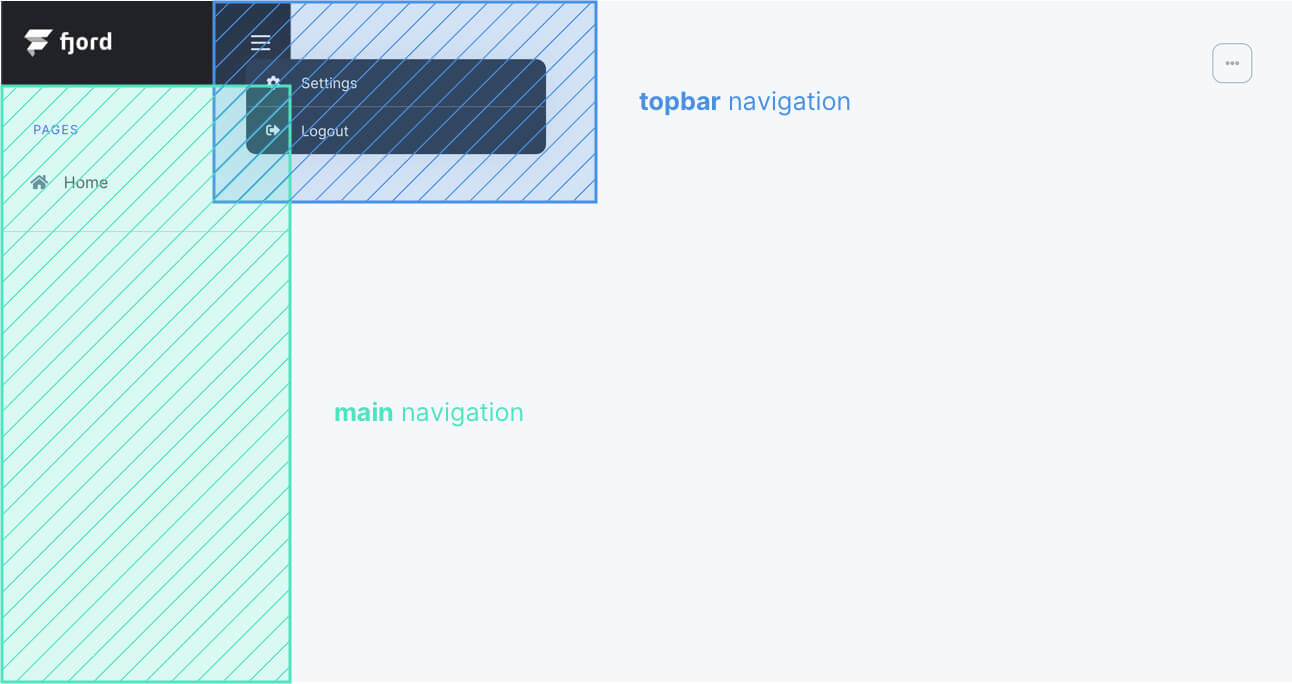
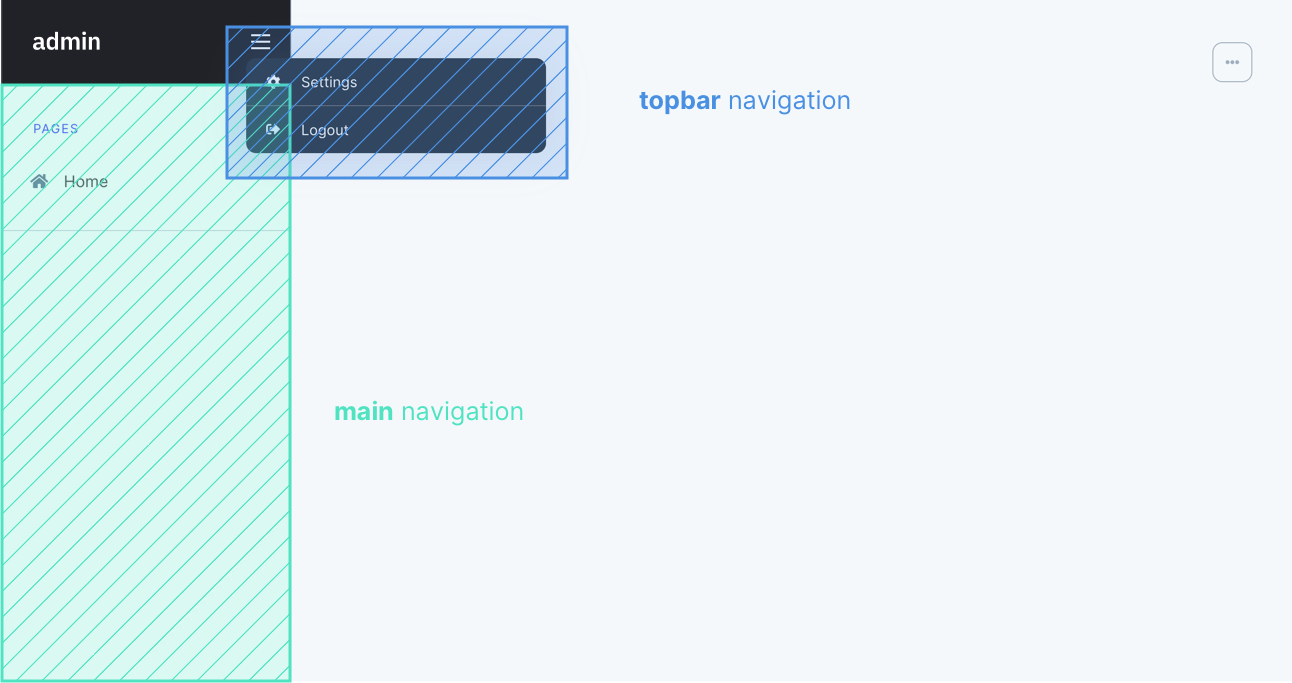
update docs

diff --git a/docs/.vuepress/config.js b/docs/.vuepress/config.js
@@ -1,7 +1,7 @@
 const meta = {
-    title: 'Fjord | Laravel Content-Administration',
+    title: 'Laravel Content-Administration',
     description:
-        'Fjord is a multilanguage admin-panel scaffolding package that helps you creating CRUD in seconds via Artisan-commands. It also lets you manage the "static" content of each of your websites pages (Headlines, Text, Images), as well repetitive mixed contents you define. Generating content as well as passing it to your views and retrieving it is super simple.',
+        'A multilanguage admin-panel scaffolding package that helps you creating CRUD in seconds via Artisan-commands. It also lets you manage the "static" content of each of your websites pages (Headlines, Text, Images), as well repetitive mixed contents you define. Generating content as well as passing it to your views and retrieving it is super simple.',
     url: 'https://www.fjord-admin.com'
 };
 
@@ -40,7 +40,7 @@ let head = [
 
 module.exports = {
     base: '/',
-    title: 'Fjord',
+    title: 'Laravel Content-Administration',
     description: 'description',
     head,
     plugins: [
@@ -60,7 +60,7 @@ module.exports = {
         ]
     ],
     themeConfig: {
-        logo: '/logo.svg',
+        //logo: '/logo.svg',
         repo: 'aw-studio/fjord',
         editLinks: true,
         docsDir: 'docs',
@@ -69,7 +69,7 @@ module.exports = {
                 text: 'Documentation',
                 link: '/docs/getting-started/installation'
             },
-            { text: '🕹 Demo', link: 'https://demo.fjord-admin.com/admin' },
+            //{ text: '🕹 Demo', link: 'https://demo.fjord-admin.com/admin' },
             { text: 'Discord', link: 'https://discord.gg/u4qpb5P' }
         ],
         sidebar: {
@@ -88,7 +88,7 @@ module.exports = {
                     collapsable: false,
                     children: [
                         ['docs/basics/navigation', 'Navigation'],
-                        ['docs/basics/page', 'Fjord Page'],
+                        ['docs/basics/page', 'Page'],
                         ['docs/basics/localization', 'Localization'],
                         ['docs/basics/helpers', 'Helpers']
                     ]
@@ -159,8 +159,8 @@ module.exports = {
                     title: 'Official Packages',
                     collapsable: false,
                     children: [
-                        ['docs/packages/fjord-ui-kit', 'Fjord UI Kit'],
-                        ['docs/packages/fjord-pages', 'Fjord Pages']
+                        ['docs/packages/fjord-ui-kit', 'UI Kit'],
+                        ['docs/packages/fjord-pages', 'Pages']
                     ]
                 }
                 // {

diff --git a/docs/docs/basics/localization.md b/docs/docs/basics/localization.md
@@ -2,9 +2,9 @@
 
 [[toc]]
 
-Fjord can be managed multilingual. The translation in the frontend can be done in `php` using [laravel's localization](https://laravel.com/docs/7.x/localization) service or in `vue` using [vue-i18n](https://kazupon.github.io/vue-i18n/docs/formatting.html). It uses the syntax of **laravel**. All translation strings are formatted so they can be used in `vue-i18n` as well.
+The application can be managed multilingual. The translation in the frontend can be done in `php` using [laravel's localization](https://laravel.com/docs/7.x/localization) service or in `vue` using [vue-i18n](https://kazupon.github.io/vue-i18n/docs/formatting.html). It uses the syntax of **laravel**. All translation strings are formatted so they can be used in `vue-i18n` as well.
 
-In Laravel applications that include Fjord, there are **two** different locales, one for your website and one for the Fjord application. So for example, a user can manage German content in the Fjord application and still see the interface in the English version.
+In Laravel applications that include the package, there are **two** different locales, one for your website and one for the admin application. So for example, a user can manage german content in the admin application and still see the interface in the english version.
 
 The following examples refer to the translations which look like this:
 
@@ -18,7 +18,7 @@ return [
 
 ## PHP
 
-To compile for the locale of the Fjord interface the `__f()` helper method is used, just like `__()` from laravel's [localization](https://laravel.com/docs/7.x/localization#retrieving-translation-strings).
+To compile for the locale of the admin interface the `__f()` helper method is used, just like `__()` from laravel's [localization](https://laravel.com/docs/7.x/localization#retrieving-translation-strings).
 
 ```php
 __f('messages.welcome', ['name', 'Jannes'])
@@ -70,7 +70,7 @@ if (FjordApp::isLocale('en')) {
 
 ## Add Path
 
-By default the path `fjord/resources/lang` is imported for the Fjord translation. You can register any number of paths with localization files in your service providers. However, it is recommended to keep the translations for the Fjord application and your website separate.
+By default the path `fjord/resources/lang` is imported for the admin translation. You can register any number of paths with localization files in your service providers. However, it is recommended to keep the translations for the admin application and your website separate.
 
 All translation attributes are merged, which makes it easy to extend existing localizations for parts like **validation** or others.
 

diff --git a/docs/docs/frontend/components.md b/docs/docs/frontend/components.md
@@ -2,13 +2,13 @@
 
 [[toc]]
 
-Fjord comes along with **bootstrap-vue** and a few components that can be used to build pages that fit the Fjord style. To ensure that users of the Fjord interface can find their way around quickly and easily on all sites, it is recommended to follow the following guidelines.
+The package comes along with **bootstrap-vue** and a few components that can be used to build pages that fit the package's style. To ensure that users of the admin interface can find their way around quickly and easily on all sites, it is recommended to follow the following guidelines.
 
-Fjord components have the prefix `fj-`.
+The package's components have the prefix `fj-`.
 
 ## Custom Pages
 
-Custom pages for the Fjord admin panel consist of a `container`, the topbar `navigation` and a `header`. The following content can be created as you like.
+Custom pages for the admin panel consist of a `container`, the topbar `navigation` and a `header`. The following content can be created as you like.
 
 The following example shows how the root template of a page looks like.
 
@@ -53,7 +53,7 @@ The topbar navigation is designed to make it easier for the user to navigate thr
 
 ### Go Back
 
-In the topbar navigation a **back** button can be displayed. All pages in Fjord should be reached via at most one more link from the main navigation, i.e. an **overview** page and the **detail** page.
+In the topbar navigation a **back** button can be displayed. All pages in admin application should be reached via at most one more link from the main navigation, i.e. an **overview** page and the **detail** page.
 
 To display the back link a text for the button and a link must be passed as prop to the navigation.
 
@@ -122,7 +122,7 @@ As well the header can contain controls that should be displayed under the heade
 
 ## Spinner
 
-The Fjord spinner can be displayed with the component `fj-spinner`.
+The spinner can be displayed with the component `fj-spinner`.
 
 ```javascript
 <template v-if="busy">

diff --git a/docs/docs/basics/helpers.md b/docs/docs/basics/helpers.md
@@ -2,10 +2,10 @@
 
 [[toc]]
 
-Fjord includes a variety of global helper **PHP** `functions`.
+The package includes a variety of global helper **PHP** `functions`.
 
 ::: tip
-Fjord includes useful **Vue** `mixins` as well. Read the [Vue mixins](/docs/frontend/vue#mixins) section to learn more about the existing `mixins`.
+The package includes useful **Vue** `mixins` as well. Read the [Vue mixins](/docs/frontend/vue#mixins) section to learn more about the existing `mixins`.
 :::
 
 ### Fjord Facade
@@ -23,13 +23,13 @@ Fjord includes useful **Vue** `mixins` as well. Read the [Vue mixins](/docs/fron
 
 ## Fjord Facade
 
-The `Fjord` singleton contains some helpers which are related to the Fjord application.
+The `Fjord` singleton contains some helpers which are related to the application.
 
 <a name="method-php-fjord-installed"></a>
 
 ### `installed()`
 
-The `installed` method checks if Fjord has been installed. This can be useful in service providers.
+The `installed` method checks if the package has been installed. This can be useful in service providers.
 
 ```php
 use Fjord\Support\Facades\Fjord;
@@ -73,7 +73,7 @@ If you don't want to use the route name to call a route but directly specify the
 
 ### `__f($key, $replace)`
 
-The `__f` method returns the translation using the Fjord application locale for the authenticated Fjord user.
+The `__f` method returns the translation using the application locale for the authenticated user.
 
 ```php
 __f('messages.welcome', ['name' => 'Spatie'])
@@ -109,7 +109,7 @@ Fjord::installed();
 
 ### `fjord_user()`
 
-The `fjord_user` method returns the authenticated Fjord user model.
+The `fjord_user` method returns the authenticated user model.
 
 ```php
 <span>{{ fjord_user()->email }}</span>

diff --git a/docs/docs/basics/vue.md b/docs/docs/basics/vue.md
@@ -1,10 +1,10 @@
 # Extend With Vue
 
-The Fjord interface can be extended with custom Vue components for numerous purposes.
+The admin interface can be extended with custom Vue components for numerous purposes.
 
 ## Setup
 
-To include your own `Vue` components in the Fjord application, the locale npm package `vendor/aw-studio/fjord` has to be installed. This can be done using the following artisan command:
+To include your own `Vue` components in the admin application, the locale npm package `vendor/aw-studio/laravel-content-administration` has to be installed. This can be done using the following artisan command:
 
 ```shell
 php artisan fjord:extend
@@ -37,7 +37,7 @@ Components that are created in the `components` folder are automatically registe
 Run `npm run watch` and you are good to go.
 
 ::: warning
-Dont forget to compile your assets every time you **update** your Fjord version.
+Dont forget to compile your assets every time you **update** the package.
 :::
 
 ## Register Vue Components
@@ -46,4 +46,4 @@ Vue Components that are located in the `./fjord/resources/js/components` folder 
 
 ## Bootstrap Vue
 
-To make it easy to build uniform Fjord pages, Fjord uses [Bootstrap Vue](https://bootstrap-vue.org/docs/components) for all frontend components. Bootstrap Vue comes with a large number of components to cover all the necessary areas needed to build an application.
+To make it easy to build uniform Fjord pages, the package uses [Bootstrap Vue](https://bootstrap-vue.org/docs/components) for all frontend components. Bootstrap Vue comes with a large number of components to cover all the necessary areas needed to build an application.

diff --git a/docs/docs/basics/page.md b/docs/docs/basics/page.md
@@ -1,10 +1,10 @@
-# Fjord Page
+# Page
 
 [[toc]]
 
-Fjord Pages are the fundamental part of fjord. They provide a convenient and yet powerfull way to configure pages for the Vue application in PHP. They can be used to integrate **Blade Views**, **Vue components** or ready-made components such as **charts** or form fields for models.
+Pages are the fundamental part of package. They provide a convenient and yet powerfull way to configure pages for the Vue application in PHP. They can be used to integrate **Blade Views**, **Vue components** or ready-made components such as **charts** or form fields for models.
 
-Fjord pages are used to configure forms with fields, index pages, dashboards with charts or basicly any kind of page for the Fjord backend.
+Pages are used to configure forms with fields, index pages, dashboards with charts or basicly any kind of page for the admin backend.
 
 ## Create a Page
 
@@ -28,7 +28,7 @@ class MyPageController
 
 This will show an empty page with the title `My Page`:
 
-![Page with Title](./screens/page_title.png 'Page with Title')
+![Page with Title](./screens/page_title.jpg 'Page with Title')
 
 ## View
 
@@ -54,7 +54,7 @@ return $page->title('My Page');
 
 And voila we have our first Page with content saying `Hello World!` using pure Blade.
 
-![Page with View](./screens/page_view.png 'Page with View')
+![Page with View](./screens/page_view.jpg 'Page with View')
 
 ## Component
 

diff --git a/docs/docs/getting-started/installation.md b/docs/docs/getting-started/installation.md
@@ -2,23 +2,20 @@
 
 [[toc]]
 
-## Setup
-
-An existing Laravel project is required to install Fjord as well as a database connection.
-
 ## Requirements
 
-Fjord requires **PHP 7.4+** and **Laravel 7+**. As well as all [requirements](https://docs.spatie.be/laravel-medialibrary/v8/requirements) of **spatie/laravel-medialibrary 8.2+**.
+An existing Laravel project is required to install the package as well as a database connection.
+The package requires **PHP 7.4+** and **Laravel 7+**. As well as all [requirements](https://docs.spatie.be/laravel-medialibrary/v8/requirements) of **spatie/laravel-medialibrary 8.2+**.
 
-## Installing Fjord
+## Setup
 
-Installing Fjord into an existing Laravel application via Composer:
+Installing the package into an existing Laravel application via Composer:
 
 ```shell
 composer require aw-studio/fjord
 ```
 
-Fjord will automatically register the needed service providers. The next step is to process all publishes and migrations by typing the following artisan command:
+The application will automatically register the needed service providers. The next step is to process all publishes and migrations by typing the following artisan command:
 
 ```shell
 php artisan fjord:install

diff --git a/docs/docs/crud/crud-config.md b/docs/docs/crud/crud-config.md
@@ -10,7 +10,7 @@ The CRUD config returns an array in which the editability and further points are
 
 ## Preview Route
 
-The preview route is optional and can be set to view the edited model directly in `mobile`, `tablet` and `desktop` view. the default device can be specified in the fjord config under the key `crud.preview.default_device`.
+The preview route is optional and can be set to view the edited model directly in `mobile`, `tablet` and `desktop` view. The default device can be specified in the fjord config under the key `crud.preview.default_device`.
 
 There are several ways to define a route that can be used according to your needs.
 
@@ -134,7 +134,7 @@ The sorting possibilities are defined in `sort_by` by setting the attribute and 
 
 ## Form Fields
 
-For each fillable attribute of the model form fields can be specified to make them editable. [Read more about Fjord form fields](/{{route}}/{{version}}/form-fields).
+For each fillable attribute of the model form fields can be specified to make them editable. [Read more about form fields](/{{route}}/{{version}}/form-fields).
 
 Form fields used for a CRUD model may in some cases come with requirements described below.
 

diff --git a/docs/docs/basics/navigation.md b/docs/docs/basics/navigation.md
@@ -2,7 +2,7 @@
 
 [[toc]]
 
-Your Fjord app by default contains two navigation instances: the top bar and your main navigation. The top navigation is for managing the admin interface, such as language, users and permissions. The main navigation is intended for the administration of data in your application.
+Your admin app by default contains two navigation instances: the top bar and your main navigation. The top navigation is for managing the admin interface, such as language, users and permissions. The main navigation is intended for the administration of data in your application.
 
 Both navigation instances are configured in `fjord/app/Config/NavigationConfig.php` which looks as follows:
 
@@ -66,7 +66,7 @@ $nav->group([
 
 ## Authorization
 
-To hide navigation entries from users without the necessary permission, an `authorize` closure can be specified in which permissions for the logged in Fjord user can be queried.
+To hide navigation entries from users without the necessary permission, an `authorize` closure can be specified in which permissions for the logged in admin user can be queried.
 
 ```php
 use Fjord\User\Models\FjordUser;

diff --git a/docs/docs/crud/models.md b/docs/docs/crud/models.md
@@ -2,7 +2,7 @@
 
 [[toc]]
 
-The main task of an admin panel is to manage data. Fjord offers easy editing and managing of [Laravel Eloquent Models](https://laravel.com/docs/7.x/eloquent). For a clear administration of models, a suitable `index` table and the corresponding `create` and `update` form are needed. Fjord also comes with powerful open source packages to make models `translatable`, `sluggable` and to attach `media`. The following packages are used for this:
+The main task of an admin panel is to manage data. The package offers easy editing and managing of [Laravel Eloquent Models](https://laravel.com/docs/7.x/eloquent). For a clear administration of models, a suitable `index` table and the corresponding `create` and `update` form are needed. The package also comes with powerful open source packages to make models `translatable`, `sluggable` and to attach `media`. The following packages are used for this:
 
 -   [Astronomic Translatable](https://docs.astrotomic.info/laravel-translatable/)
 -   [Spatie Medialibrary](https://docs.spatie.be/laravel-medialibrary/v8/introduction/)

diff --git a/docs/docs/package/basics.md b/docs/docs/package/basics.md
@@ -1,12 +1,12 @@
 # Packages
 
-Fjord offers not only an interface to manage and administer data, users and permissions, but also the possibility to integrate packages into the system. When creating the packages, the developer is free to decide what the packages should be able to do.
+The package offers not only an interface to manage and administer data, users and permissions, but also the possibility to integrate packages into the system. When creating the packages, the developer is free to decide what the packages should be able to do.
 
 Packages can offer the possibility to be extended by other packages, or to intervene in existing packages.
 
 ## Setup
 
-For Fjord to be able to discover your package it must be specified in the composer.json as follows:
+For the package to be able to discover your package it must be specified in the composer.json as follows:
 
 ```json
 {

diff --git a/docs/docs/getting-started/configuration.md b/docs/docs/getting-started/configuration.md
@@ -1,10 +1,10 @@
 # Configuration
 
-The Fjord configuration file can be found in the laravel config directory `config/fjord.php`.
+A configuration file can be found in the laravel config directory `config/fjord.php`.
 
 ## Basics
 
-In the following some basic configurations for the Fjord backend are explained. All specific configurations are explained in the corresponding documentation.
+In the following some basic configurations for the admin backend are explained. All specific configurations are explained in the corresponding documentation.
 
 Basic configuration keys:
 
@@ -14,4 +14,4 @@ Basic configuration keys:
 
 -   `login.username` Allow logging in using username or email.
 
--   `translatable` Controls the multilingualism of the Fjord interface.
+-   `translatable` Controls the multilingualism of the admin interface.
